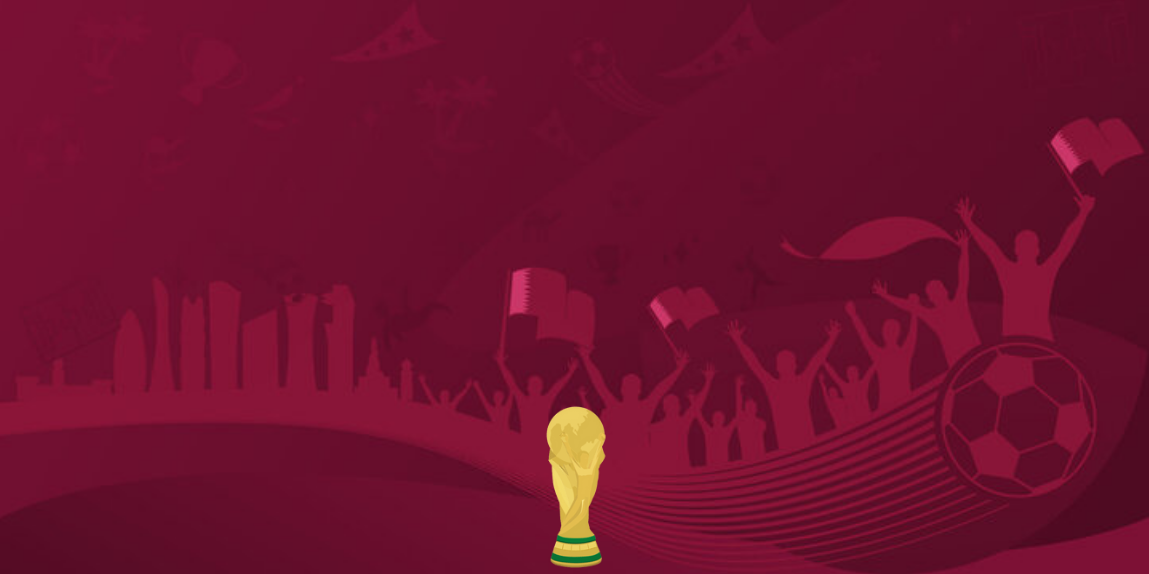
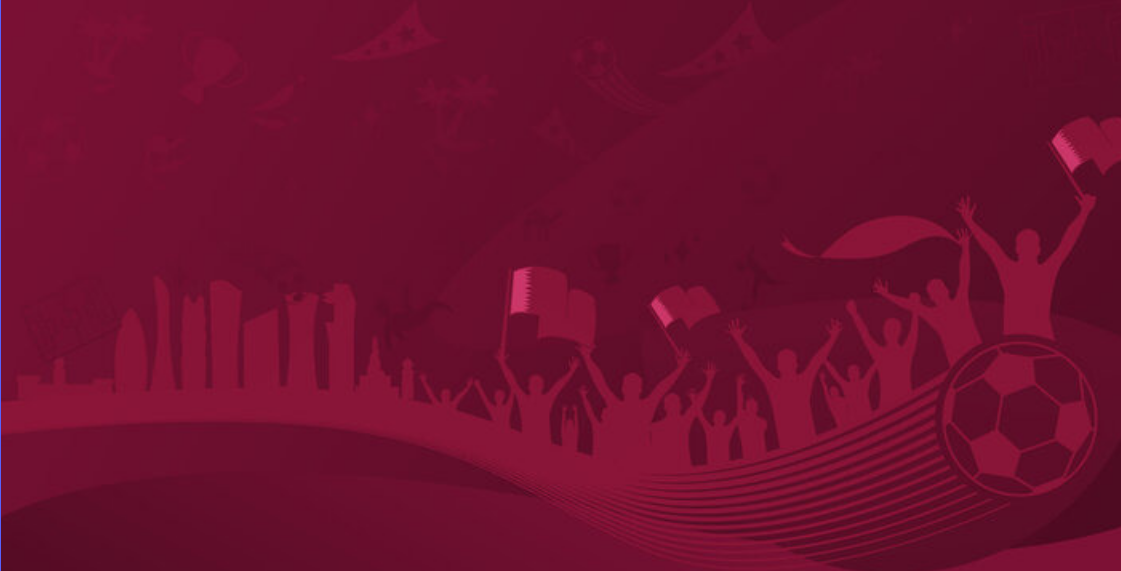
FUNDO

Changed region(s): [[0.1249, 0.2084, 1.0, 1.0], [0.8118, 0.8932, 1.0, 1.0], [0.7493, 0.4466, 0.7806, 0.4764]]

diff --git a/main.c b/main.c
@@ -87,6 +87,8 @@ int main()
     // Initialization
     //--------------------------------------------------------------------------------------
     InitWindow(SCREEN_WIDTH, SCREEN_HEIGHT, "Pong");
+    const Texture2D background = LoadTexture("resources/background.png");
+    const Texture2D cup = LoadTexture("resources/cup.png");
 
     // Global State Machine
     Global_StateMachine = SERVE_ENTER;
@@ -150,7 +152,8 @@ int main()
         // Draw in screen
         BeginDrawing();
 
-        ClearBackground(BLACK); 
+        DrawTextureEx(background, (Vector2){0, 0}, 0, 1.26, WHITE);
+        DrawTextureEx(cup, (Vector2){SCREEN_WIDTH/2-(37.5), SCREEN_HEIGHT-140}, 0, 0.25, WHITE);
         switch(Global_StateMachine)
         {
             case SERVE_ENTER:
